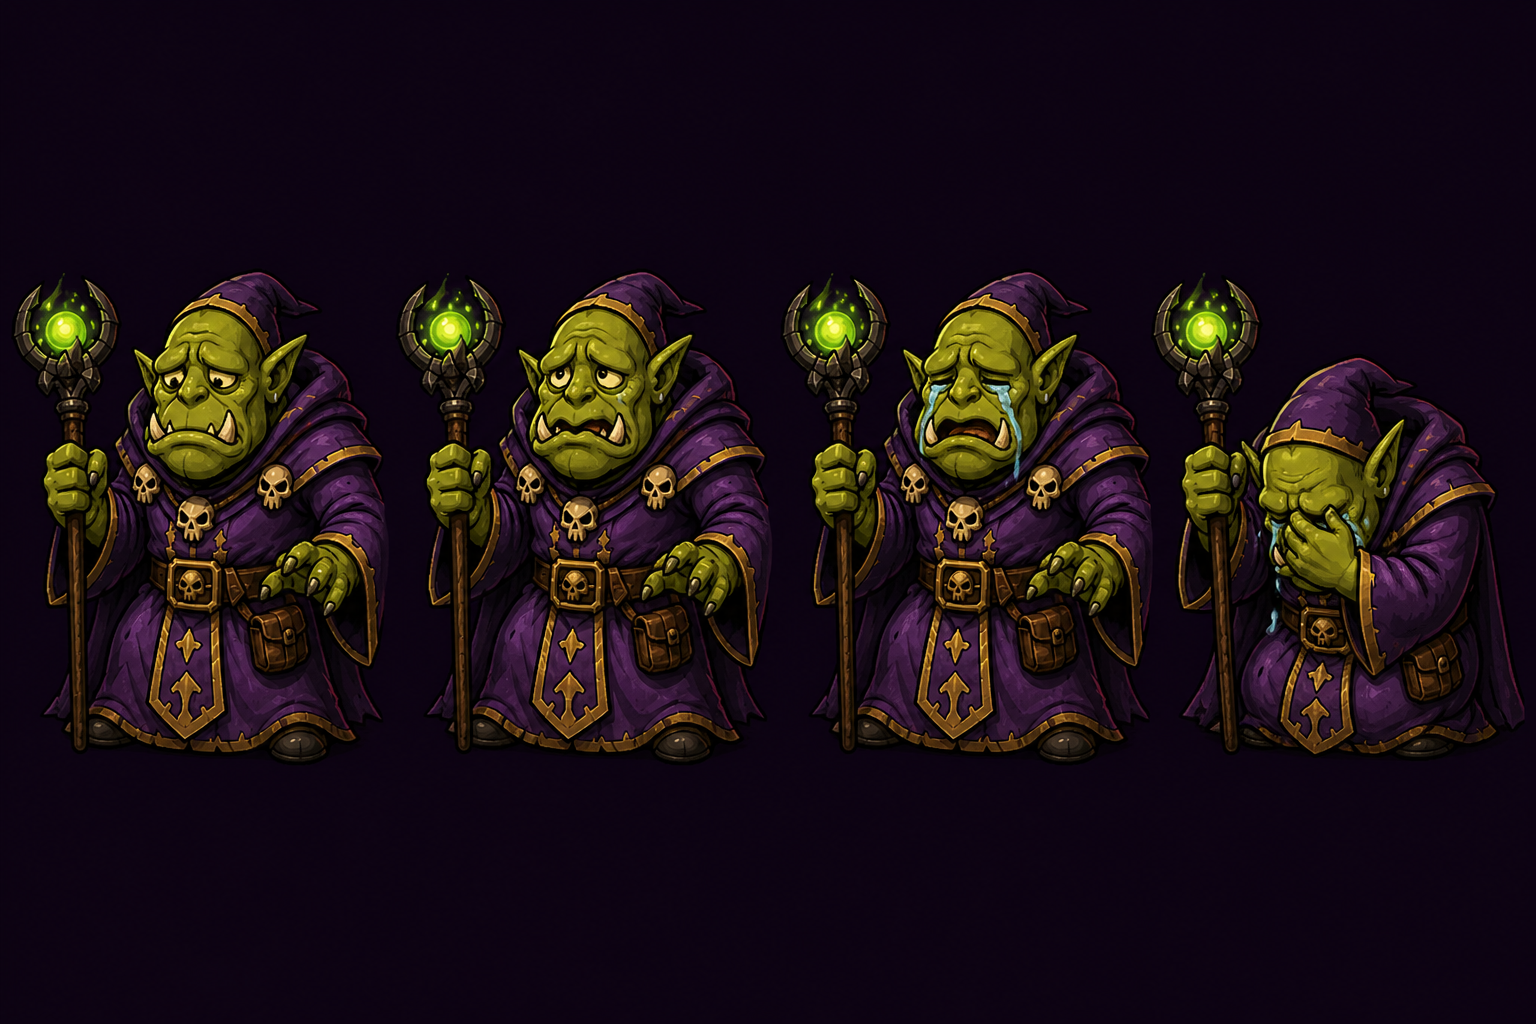
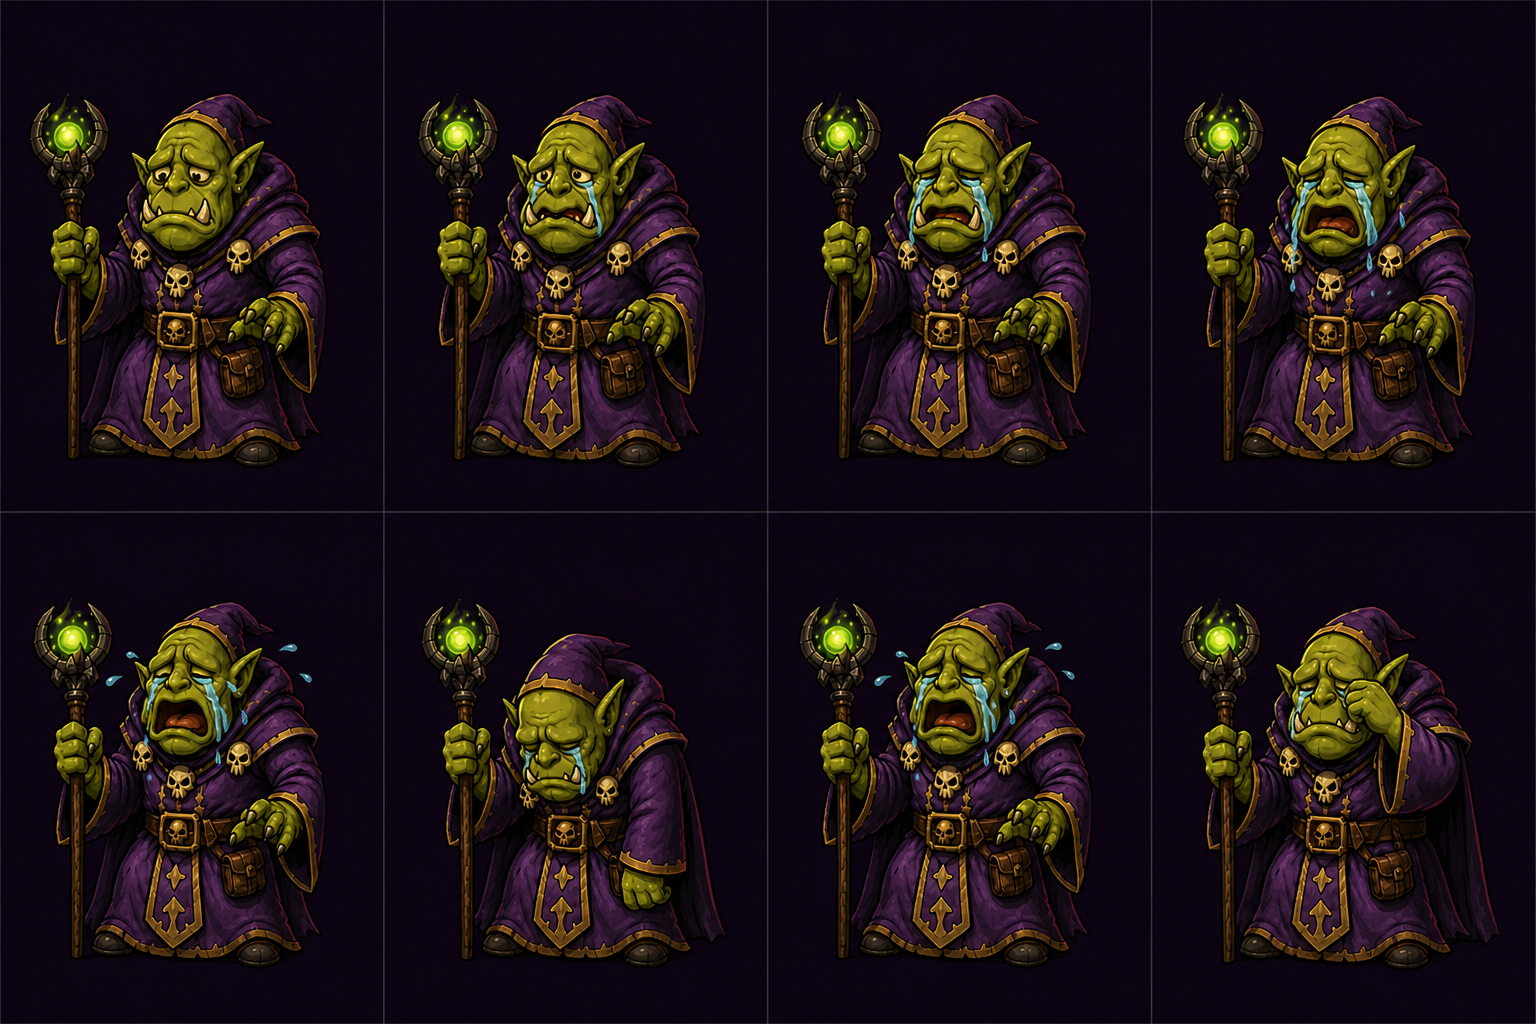
Give each orc anim 8 frames so idle/laugh/angry/hurt/cry no longer hitch.

diff --git a/games/tense-raiders/index.html b/games/tense-raiders/index.html
@@ -17,18 +17,20 @@
 <div id="wrap"><canvas id="c"></canvas></div>
 <script>
 (function () {
-  const BUILD = 'tr-orc9';
+  const BUILD = 'tr-orc10';
   const WIN = 7;
   const canvas = document.getElementById('c');
   const ctx = canvas.getContext('2d');
   const scene = new Image();
   scene.src = 'assets/raid-bg.png';
+  const SHEET_COLS = 4;
+  const SHEET_ROWS = 2;
   const SHEETS = {
-    idle: { src: 'assets/orc-idle-sheet.png', frames: 4, fps: 6, loop: true, img: null },
-    laugh: { src: 'assets/orc-laugh-sheet.png', frames: 4, fps: 8, loop: true, img: null },
-    angry: { src: 'assets/orc-angry-sheet.png', frames: 4, fps: 9, loop: true, img: null },
-    hurt: { src: 'assets/orc-hurt-sheet.png', frames: 4, fps: 10, loop: false, img: null },
-    cry: { src: 'assets/orc-cry-sheet.png', frames: 4, fps: 6, loop: true, img: null }
+    idle: { src: 'assets/orc-idle-sheet.png', frames: 8, fps: 8, loop: true, img: null },
+    laugh: { src: 'assets/orc-laugh-sheet.png', frames: 8, fps: 10, loop: true, img: null },
+    angry: { src: 'assets/orc-angry-sheet.png', frames: 8, fps: 10, loop: true, img: null },
+    hurt: { src: 'assets/orc-hurt-sheet.png', frames: 8, fps: 12, loop: false, img: null },
+    cry: { src: 'assets/orc-cry-sheet.png', frames: 8, fps: 8, loop: true, img: null }
   };
   let animKey = 'idle';
   let animBorn = 0;
@@ -311,21 +313,23 @@
     const sh = SHEETS[animKey];
     if (!sh || !sh.img) return;
     const img = sh.img;
-    const fw = img.width / sh.frames;
-    const fh = img.height;
+    const fw = img.width / SHEET_COLS;
+    const fh = img.height / SHEET_ROWS;
     const elapsed = (now - animBorn) / 1000;
     let fi = Math.floor(elapsed * sh.fps);
     if (sh.loop) fi = fi % sh.frames;
     else fi = Math.min(sh.frames - 1, fi);
+    const col = fi % SHEET_COLS;
+    const row = Math.floor(fi / SHEET_COLS);
     const o = REG.orc;
     const boxW = px(o.w);
     const boxH = py(o.h);
-    const scale = Math.min(boxW / fw, boxH / fh) * 0.95;
+    const scale = Math.min(boxW / fw, boxH / fh) * 0.92;
     const dw = fw * scale;
     const dh = fh * scale;
     const dx = px(o.x + o.w / 2) - dw / 2;
     const dy = py(o.y + o.h) - dh;
-    ctx.drawImage(img, fi * fw, 0, fw, fh, dx, dy, dw, dh);
+    ctx.drawImage(img, col * fw, row * fh, fw, fh, dx, dy, dw, dh);
   }
 
   function roundRect(x, y, w, h, r) {

diff --git a/games/_shared/qa-arcade-7.js b/games/_shared/qa-arcade-7.js
@@ -390,10 +390,10 @@ const hub = fs.readFileSync(path.join(ROOT, 'js/infinity-casino-floor.js'), 'utf
 const portal = fs.readFileSync(path.join(ROOT, 'Infinity_Student_Portal.html'), 'utf8');
 const sw = fs.readFileSync(path.join(ROOT, 'sw.js'), 'utf8');
 ok(
-  'Q18 hub VER hub46 + portal query + sw v91 + game shell no-store',
-  /20260812hub46/.test(hub) &&
-    /infinity-casino-floor\.js\?v=20260812hub46/.test(portal) &&
-    /infinity-pwa-v91/.test(sw) &&
+  'Q18 hub VER hub47 + portal query + sw v92 + game shell no-store',
+  /20260812hub47/.test(hub) &&
+    /infinity-casino-floor\.js\?v=20260812hub47/.test(portal) &&
+    /infinity-pwa-v92/.test(sw) &&
     /isGameShell/.test(sw) &&
     /cache:\s*['"]no-store['"]/.test(sw)
 );
@@ -420,5 +420,5 @@ if (failed.length) {
   process.exit(1);
 }
 console.log(
-  'Core checks green. Knight + Thief finishable; Tense Raiders proto; verify: hub46'
+  'Core checks green. Knight + Thief finishable; Tense Raiders proto; verify: hub47'
 );

diff --git a/Infinity_Student_Portal.html b/Infinity_Student_Portal.html
@@ -9213,7 +9213,7 @@ if(document.readyState === 'loading'){
 </div>
 
 <script src="js/infinity-arcade-lil-games.js?v=20260812lil3"></script>
-<script src="js/infinity-casino-floor.js?v=20260812hub46"></script>
+<script src="js/infinity-casino-floor.js?v=20260812hub47"></script>
 <script src="js/infinity-modern-games.js?v=20260812mod6"></script>
 <script src="js/infinity-tense-drop.js?v=20260812drop2"></script>
 </body>

diff --git a/sw.js b/sw.js
@@ -1,5 +1,5 @@
 /* Infinity Studio CR — PWA service worker (network-first HTML + games shell, cache static assets) */
-var CACHE = 'infinity-pwa-v91';
+var CACHE = 'infinity-pwa-v92';
 var PRECACHE = [
   '/icon-192.png',
   '/icon-512.png',

diff --git a/js/infinity-casino-floor.js b/js/infinity-casino-floor.js
@@ -7,7 +7,7 @@
   'use strict';
 
   var MANTRA = 'LINK · IDEA · LINK';
-  var VER = '20260812hub46';
+  var VER = '20260812hub47';
 
   /** Knight + Dark Thief + Tense Raiders + Rapid Drill */
   var GAMES = [
